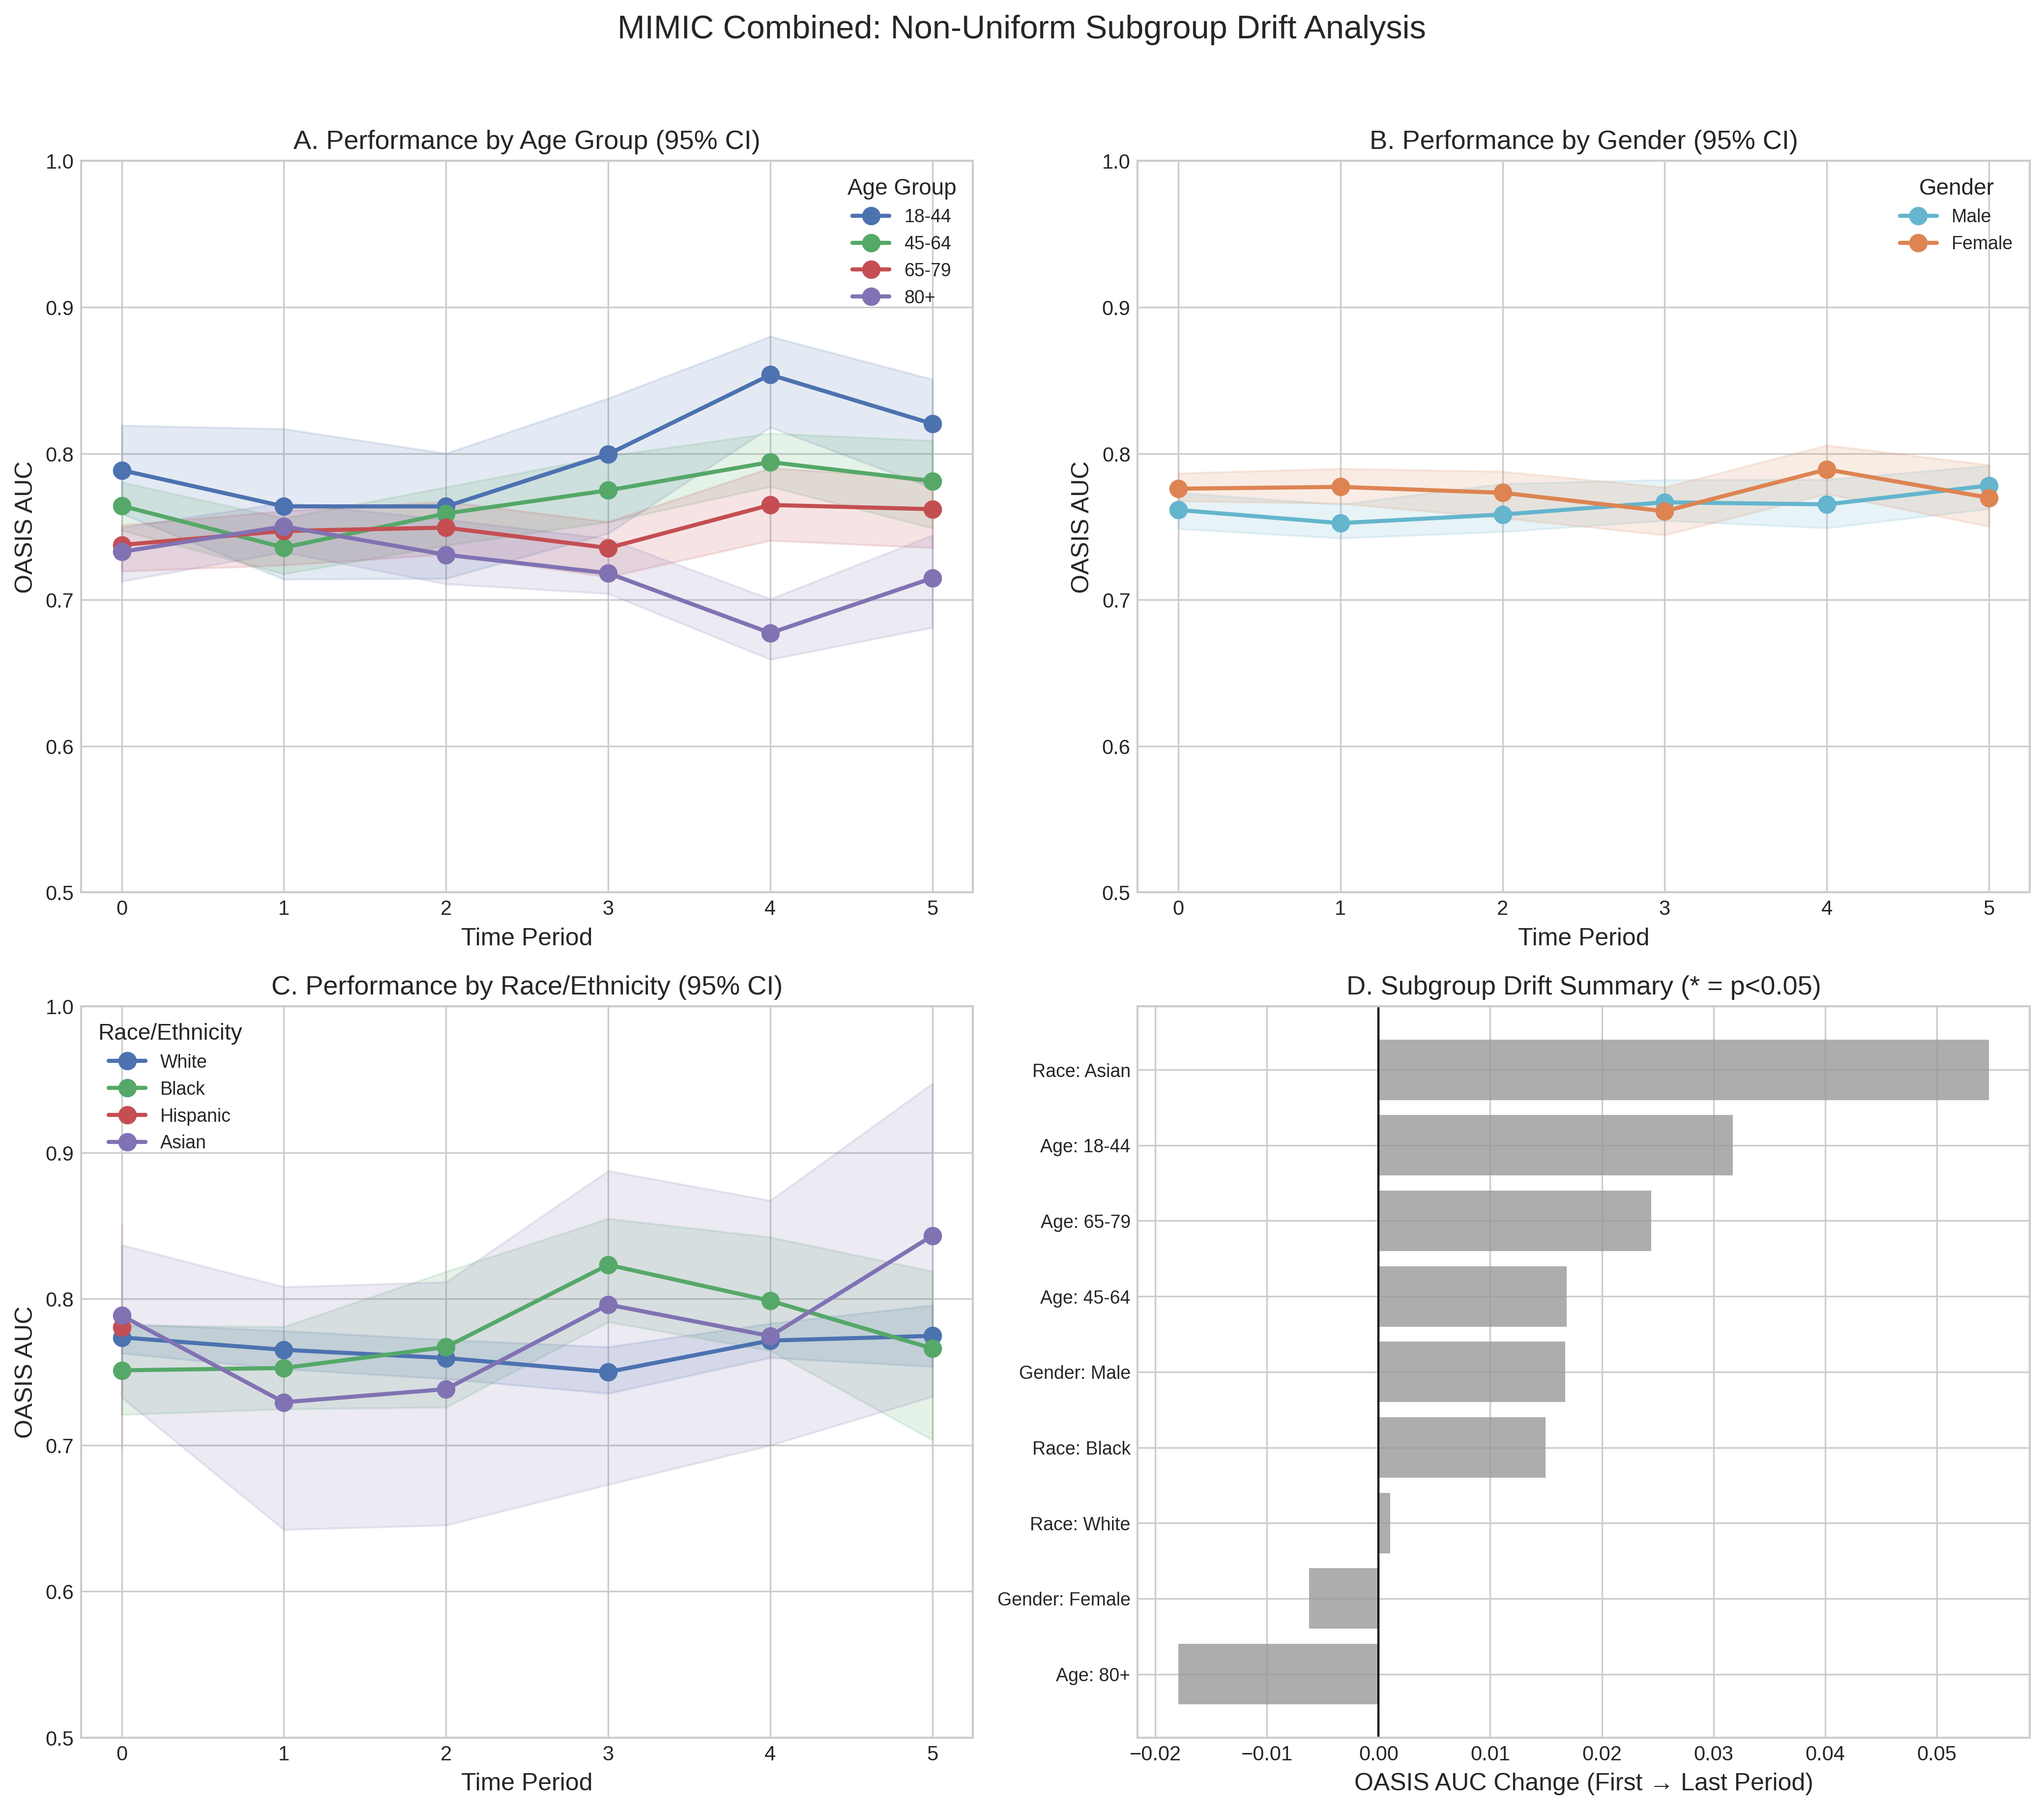
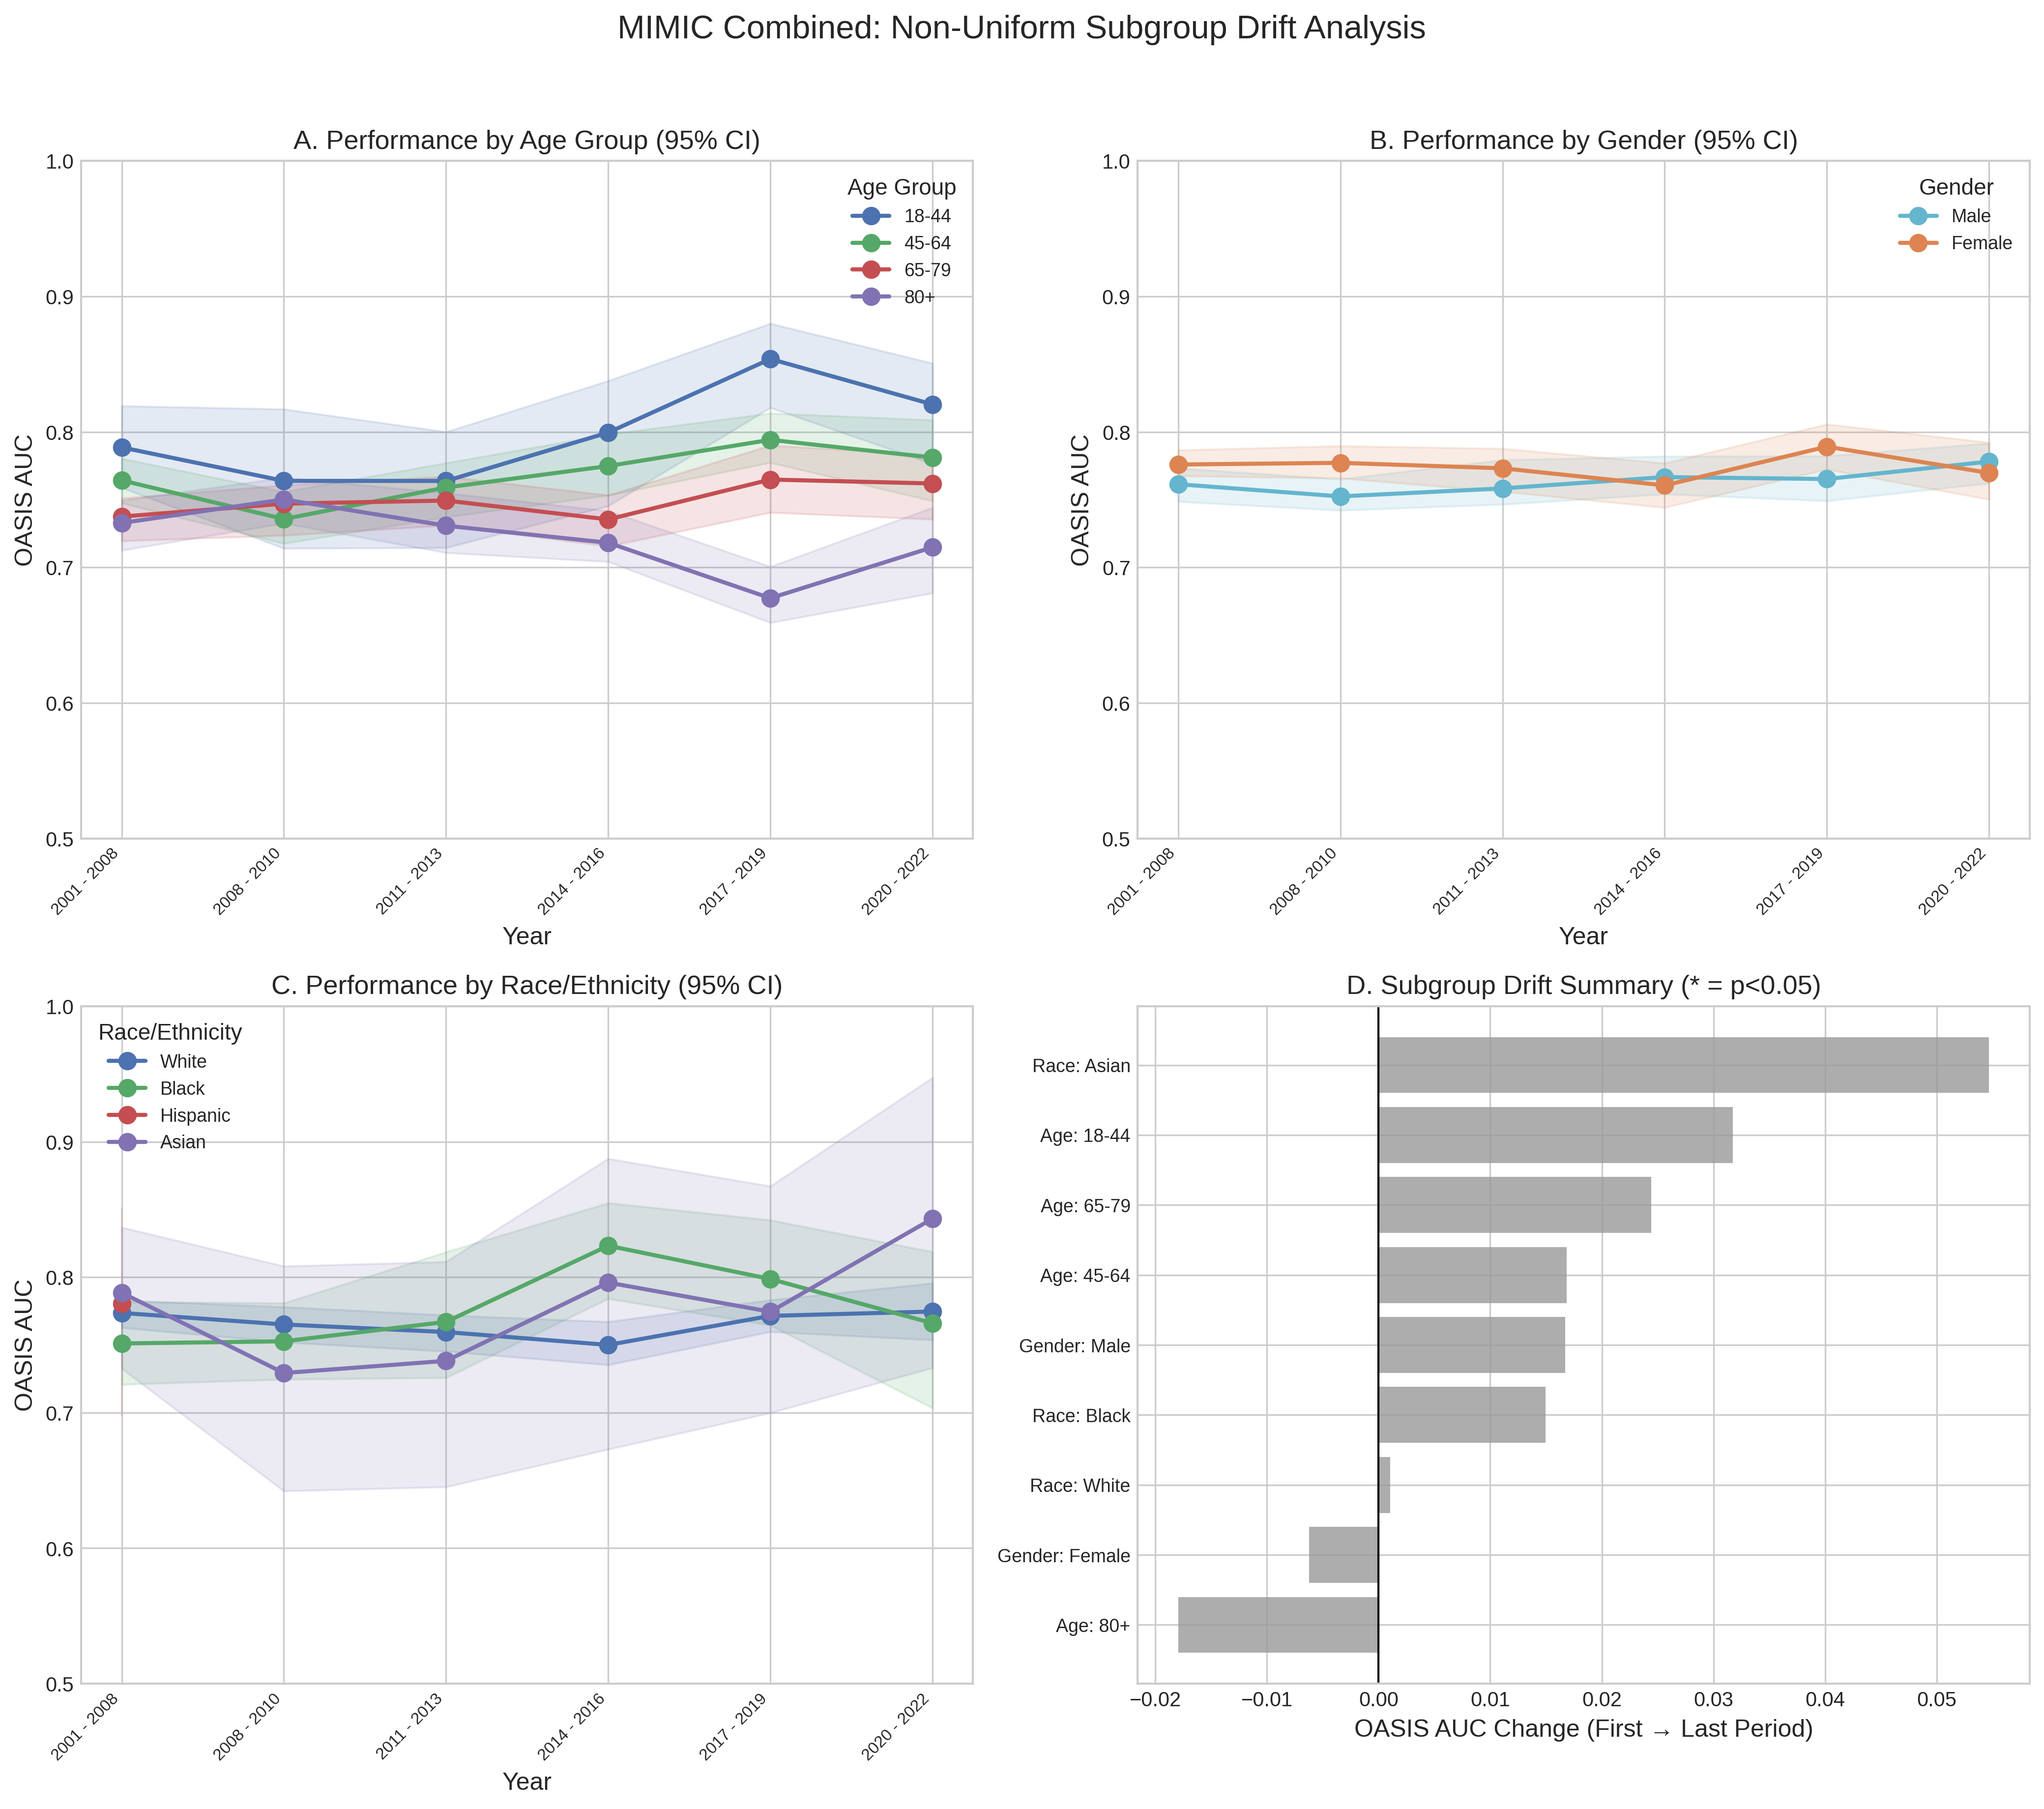
ipdating x-axis to year format

diff --git a/code/generate_all_figures.py b/code/generate_all_figures.py
@@ -253,7 +253,10 @@ def create_per_dataset_figure(results, deltas, dataset_key, fig_num):
                     if has_ci and not age_df['auc_ci_lower'].isna().all():
                         ax_age.fill_between(x, age_df['auc_ci_lower'], age_df['auc_ci_upper'],
                                            color=color, alpha=0.15)
-            ax_age.set_xlabel('Time Period')
+            # Use actual year labels on x-axis
+            ax_age.set_xticks(range(n_periods))
+            ax_age.set_xticklabels(time_periods, rotation=45, ha='right', fontsize=8)
+            ax_age.set_xlabel('Year')
             ax_age.legend(title='Age Group', loc='best', fontsize=9)
         else:
             # Bar chart for single period
@@ -288,7 +291,10 @@ def create_per_dataset_figure(results, deltas, dataset_key, fig_num):
                     if has_ci and not gender_df['auc_ci_lower'].isna().all():
                         ax_gender.fill_between(x, gender_df['auc_ci_lower'], gender_df['auc_ci_upper'],
                                               color=color, alpha=0.15)
-            ax_gender.set_xlabel('Time Period')
+            # Use actual year labels on x-axis
+            ax_gender.set_xticks(range(n_periods))
+            ax_gender.set_xticklabels(time_periods, rotation=45, ha='right', fontsize=8)
+            ax_gender.set_xlabel('Year')
             ax_gender.legend(title='Gender', loc='best', fontsize=9)
         else:
             genders = ['Male', 'Female']
@@ -322,7 +328,10 @@ def create_per_dataset_figure(results, deltas, dataset_key, fig_num):
                     if has_ci and not race_df['auc_ci_lower'].isna().all():
                         ax_race.fill_between(x, race_df['auc_ci_lower'], race_df['auc_ci_upper'],
                                             color=color, alpha=0.15)
-            ax_race.set_xlabel('Time Period')
+            # Use actual year labels on x-axis
+            ax_race.set_xticks(range(n_periods))
+            ax_race.set_xticklabels(time_periods, rotation=45, ha='right', fontsize=8)
+            ax_race.set_xlabel('Year')
             ax_race.legend(title='Race/Ethnicity', loc='best', fontsize=9)
         else:
             races = ['White', 'Black', 'Hispanic', 'Asian']
@@ -345,7 +354,10 @@ def create_per_dataset_figure(results, deltas, dataset_key, fig_num):
             if has_ci and not overall_data['auc_ci_lower'].isna().all():
                 ax_race.fill_between(x, overall_data['auc_ci_lower'], overall_data['auc_ci_upper'],
                                     color='#666666', alpha=0.15)
-            ax_race.set_xlabel('Time Period')
+            # Use actual year labels on x-axis
+            ax_race.set_xticks(range(n_periods))
+            ax_race.set_xticklabels(time_periods, rotation=45, ha='right', fontsize=8)
+            ax_race.set_xlabel('Year')
         ax_race.set_ylabel(f'{primary_score.upper()} AUC')
         ax_race.set_title('C. Overall Performance' + (' (95% CI)' if has_ci else '') + ' (No race data)')
         ax_race.set_ylim(0.5, 1.0)

diff --git a/README.md b/README.md
@@ -160,6 +160,8 @@ Each figure shows a comprehensive 4-panel analysis for one dataset:
 - Race=Asian (SAPS-II): **+0.129** (p=0.017) - significant improvement
 - Age=18-44 (APS-III): **+0.092** (p<0.001) - significant improvement
 - Age=18-44 (SOFA): **+0.080** (p=0.009) - significant improvement
+- Age=18-44 (SAPS-II): **+0.067** (p=0.009) - significant improvement
+- Age=65-79 (SOFA): **+0.054** (p=0.003) - significant improvement
 - Overall trend: Younger patients and Asian patients show strong improvements
 
 ---
@@ -173,7 +175,9 @@ Each figure shows a comprehensive 4-panel analysis for one dataset:
 - Race=Asian (SOFA): **+0.101** (p<0.001) - significant improvement
 - Age=80+ (SOFA): **+0.044** (p<0.001) - elderly improve
 - Gender=Female (SOFA): **+0.028** (p<0.001) - females improve
-- Most subgroups show degradation in APS-III scores
+- Race=Hispanic (OASIS): **-0.117** (p<0.001) - severe degradation
+- Race=Black (OASIS): **-0.069** (p<0.001) - significant decline
+- Most subgroups show severe degradation in APS-III scores (all -0.06 to -0.12)
 - 78.2% of comparisons are statistically significant
 
 ---
@@ -187,7 +191,9 @@ Each figure shows a comprehensive 4-panel analysis for one dataset:
 - Age=45-64 (APS-III): **+0.133** (p=0.024) - significant improvement
 - Age=45-64 (SAPS-II): **+0.117** (p=0.047) - significant improvement
 - Gender=Male (APS-III): **+0.092** (p=0.009) - males improve significantly
-- Overall: Mostly stable with 17.9% significant comparisons
+- Overall APS-III: **+0.076** (p=0.005) - significant improvement
+- Overall SAPS-II: **+0.054** (p=0.048) - significant improvement
+- Overall: Mostly stable with 17.9% significant comparisons (5/28 tests)
 - European dataset shows different patterns than US datasets
 
 ---
@@ -201,8 +207,10 @@ Each figure shows a comprehensive 4-panel analysis for one dataset:
 - Gender=Female (APS-III): **+0.158** (p=0.007) - females improve significantly
 - Age=80+ (APS-III): **+0.141** (p=0.041) - elderly improve
 - Age=45-64 (SAPS-II): **+0.136** (p=0.043) - middle-aged improve
-- Overall: Mostly stable with 17.9% significant comparisons
-- Asian dataset shows unique gender patterns (females improve 3x more than males)
+- Gender=Male (APS-III): **+0.085** (p=0.035) - males improve moderately
+- Overall APS-III: **+0.111** (p<0.001) - significant improvement
+- Overall: Mostly stable with 17.9% significant comparisons (5/28 tests)
+- Asian dataset shows unique gender patterns (females improve 1.9x more than males in APS-III)
 
 ---
 
